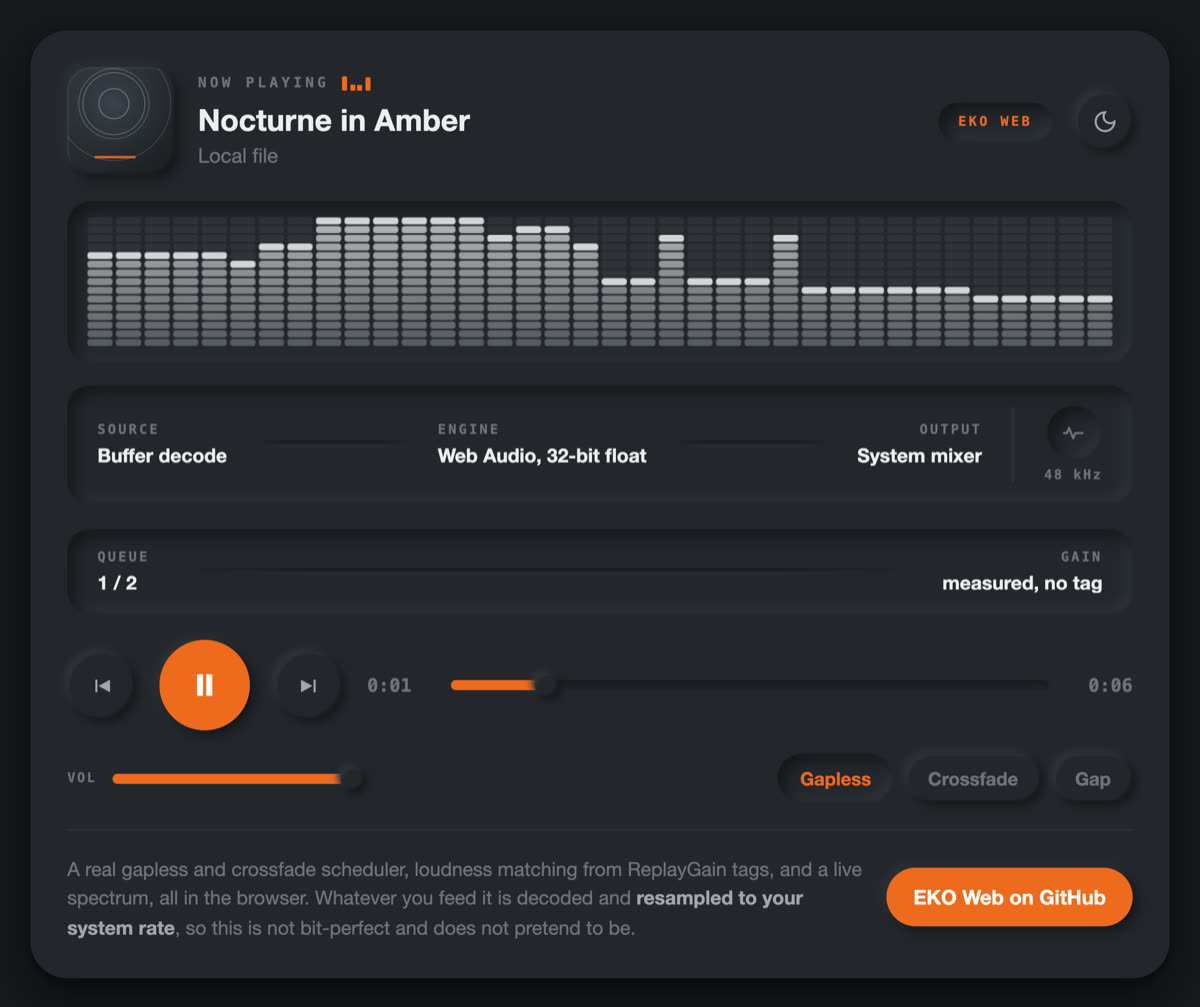
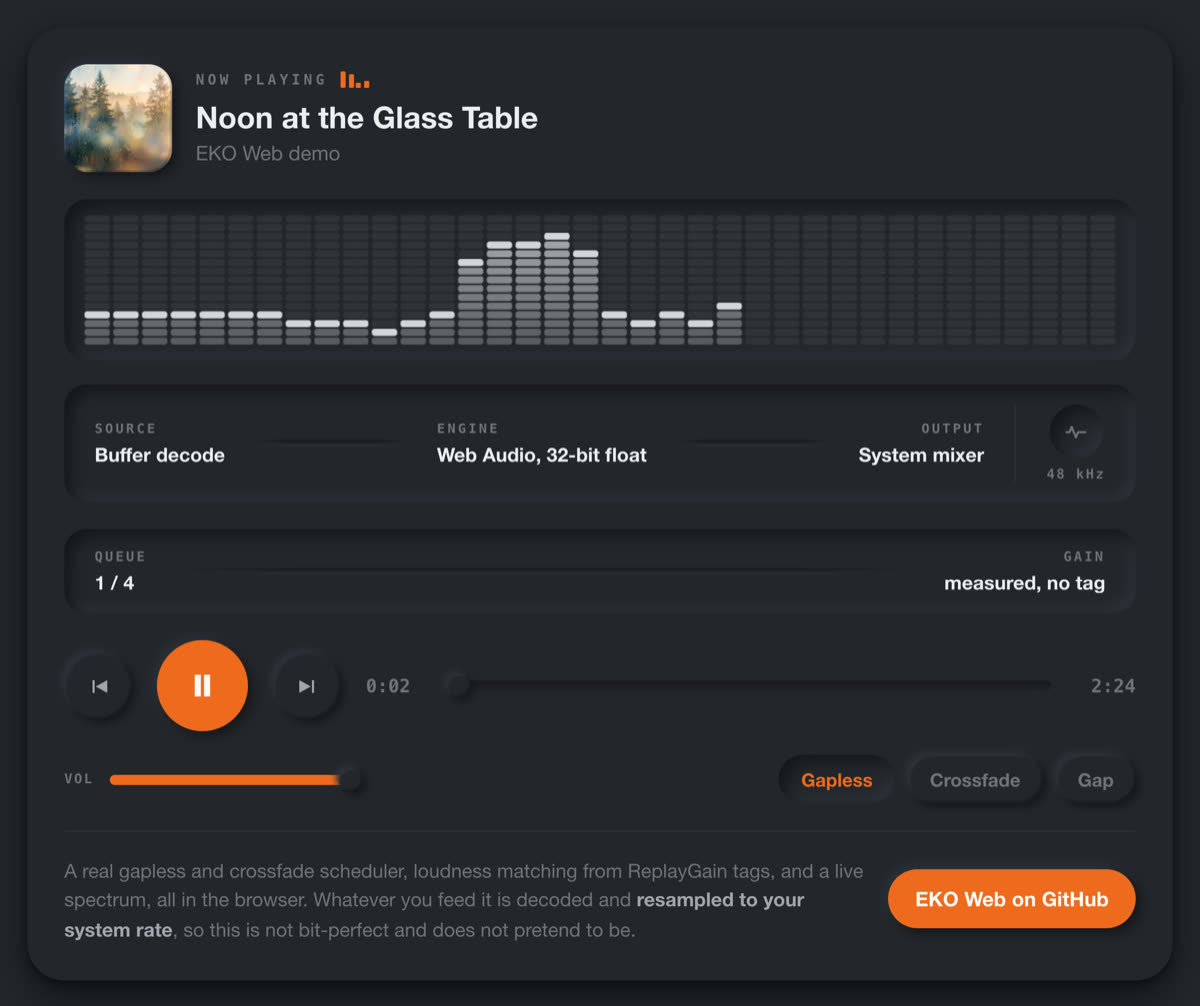
fix: unused import broke the build, and refresh the README media
The test file imported vi and never used it, which typecheck rejects. I pushed
without reading the prettier warning in my own output, so CI went red on a
formatting run and then again on this. Checking the gate output rather than
assuming it is the whole point of having one.

The README images were captured from the demo playing a synthesised chord. They
now show the live site: the real tracks, the album artwork in the cover slot,
and a real duration.

diff --git a/tests/documented-patterns.test.ts b/tests/documented-patterns.test.ts
@@ -11,7 +11,7 @@
  * unmount. Creating one in a render body gives a fresh AudioContext on every state change,
  * and browsers cap those at around six per page.
  */
-import { describe, it, expect, afterEach, vi } from "vitest";
+import { describe, it, expect, afterEach } from "vitest";
 import { createElement, useState, useEffect } from "react";
 import { render, cleanup, act } from "@testing-library/react";
 import { EkoWebEngine } from "../src/engine/eko-web-engine";

diff --git a/README.md b/README.md
@@ -18,7 +18,7 @@ About 12&nbsp;kB, no runtime dependencies, and no framework of its own.
 
 <img src="https://raw.githubusercontent.com/reactivepixels/eko-web/main/.github/media/player.gif" alt="The player running, with a live segmented spectrum" width="760">
 
-<sub>The demo player in `examples/`, running the library. Not a mockup.</sub>
+<sub>The <a href="https://reactivepixels.com/eko-web/">live demo</a>, running this library. Not a mockup.</sub>
 
 </div>
 
